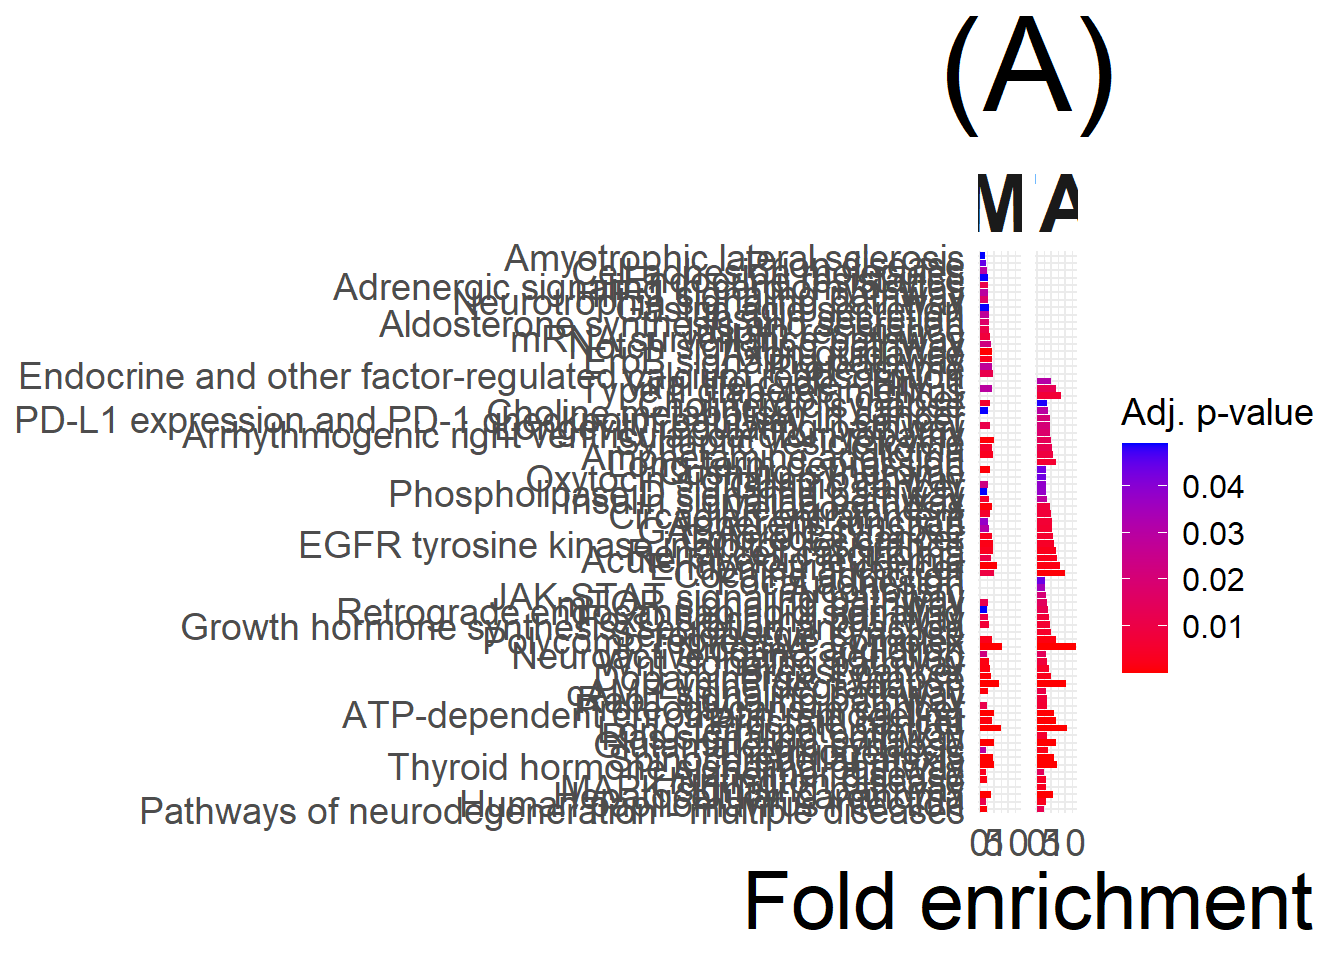
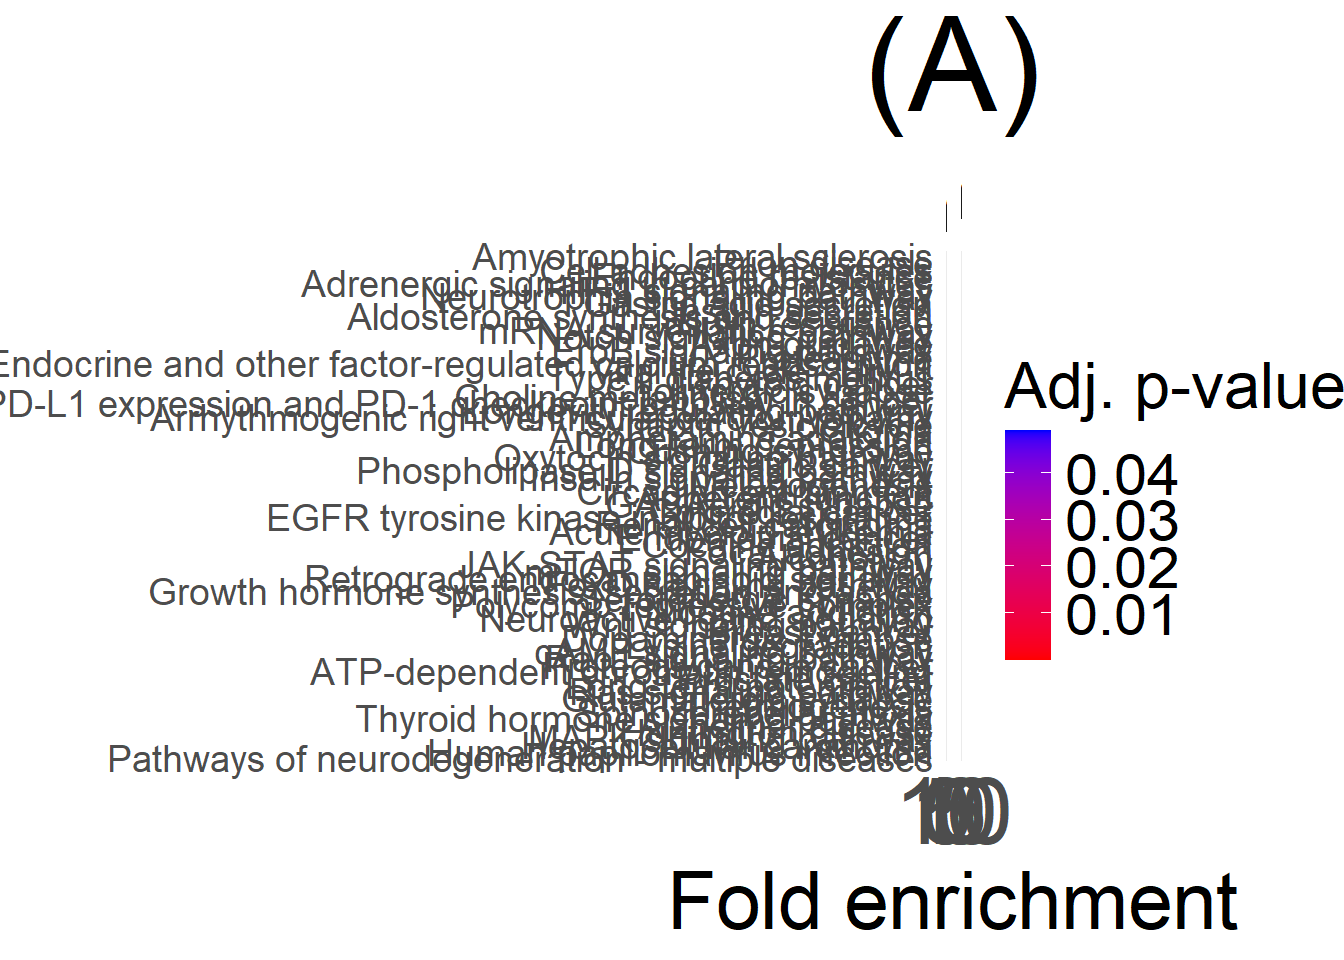
7/29/2025

Changed region(s): [[0.0, 0.25, 1.0, 0.9688], [0.625, 0.0, 0.8438, 0.1562], [0.7188, 0.1875, 0.8125, 0.25]]

diff --git a/docs/part03_func_enrichment_clusterprofiler.html b/docs/part03_func_enrichment_clusterprofiler.html
@@ -417,7 +417,7 @@ aria-hidden="true"></span> </a>
 <div class="tab-content">
 <div id="summary" class="tab-pane fade in active">
 <p>
-<strong>Last updated:</strong> 2025-07-25
+<strong>Last updated:</strong> 2025-07-29
 </p>
 <p>
 <strong>Checks:</strong> <span
@@ -551,15 +551,15 @@ project makes it easier to run your code on other machines.</p>
 <div class="panel panel-default">
 <div class="panel-heading">
 <p class="panel-title">
-<a data-toggle="collapse" data-parent="#workflowr-checks" href="#strongRepositoryversionstrongahrefhttpsgithubcomhan16deepmotifstree0b5c9c72ece40e1d2bdfcaffad645390a654b1betargetblank0b5c9c7a">
+<a data-toggle="collapse" data-parent="#workflowr-checks" href="#strongRepositoryversionstrongahrefhttpsgithubcomhan16deepmotifstree79b65c2eb9989c2cbb941f77e54512419aba59a7targetblank79b65c2a">
 <span class="glyphicon glyphicon-ok text-success"
 aria-hidden="true"></span> <strong>Repository version:</strong>
-<a href="https://github.com/han16/deep_motifs/tree/0b5c9c72ece40e1d2bdfcaffad645390a654b1be" target="_blank">0b5c9c7</a>
+<a href="https://github.com/han16/deep_motifs/tree/79b65c2eb9989c2cbb941f77e54512419aba59a7" target="_blank">79b65c2</a>
 </a>
 </p>
 </div>
 <div
[2 lines of base64/hex data omitted]
 class="panel-collapse collapse">
 <div class="panel-body">
 <p>
@@ -569,7 +569,7 @@ reproducibility.
 </p>
 <p>
 The results in this page were generated with repository version
-<a href="https://github.com/han16/deep_motifs/tree/0b5c9c72ece40e1d2bdfcaffad645390a654b1be" target="_blank">0b5c9c7</a>.
+<a href="https://github.com/han16/deep_motifs/tree/79b65c2eb9989c2cbb941f77e54512419aba59a7" target="_blank">79b65c2</a>.
 See the <em>Past versions</em> tab to see a history of the changes made
 to the R Markdown and HTML files.
 </p>
@@ -587,6 +587,7 @@ Ignored files:
     Ignored:    .Rhistory
 
 Unstaged changes:
+    Modified:   analysis/index.Rmd
     Modified:   analysis/part03_func_enrichment_clusterprofiler.Rmd
 
 </code></pre>
@@ -634,6 +635,40 @@ Message
 </tr>
 </thead>
 <tbody>
+<tr>
+<td>
+Rmd
+</td>
+<td>
+<a href="https://github.com/han16/deep_motifs/blob/79b65c2eb9989c2cbb941f77e54512419aba59a7/analysis/part03_func_enrichment_clusterprofiler.Rmd" target="_blank">79b65c2</a>
+</td>
+<td>
+han
+</td>
+<td>
+2025-07-25
+</td>
+<td>
+7/25/2025
+</td>
+</tr>
+<tr>
+<td>
+html
+</td>
+<td>
+<a href="https://rawcdn.githack.com/han16/deep_motifs/79b65c2eb9989c2cbb941f77e54512419aba59a7/docs/part03_func_enrichment_clusterprofiler.html" target="_blank">79b65c2</a>
+</td>
+<td>
+han
+</td>
+<td>
+2025-07-25
+</td>
+<td>
+7/25/2025
+</td>
+</tr>
 <tr>
 <td>
 Rmd
@@ -1112,6 +1147,17 @@ Date
 <tbody>
 <tr>
 <td>
+<a href="https://github.com/han16/deep_motifs/blob/79b65c2eb9989c2cbb941f77e54512419aba59a7/docs/figure/part03_func_enrichment_clusterprofiler.Rmd/unnamed-chunk-8-1.png" target="_blank">79b65c2</a>
+</td>
+<td>
+han
+</td>
+<td>
+2025-07-25
+</td>
+</tr>
+<tr>
+<td>
 <a href="https://github.com/han16/deep_motifs/blob/0b5c9c72ece40e1d2bdfcaffad645390a654b1be/docs/figure/part03_func_enrichment_clusterprofiler.Rmd/unnamed-chunk-8-1.png" target="_blank">0b5c9c7</a>
 </td>
 <td>
@@ -1182,6 +1228,17 @@ Date
 <tbody>
 <tr>
 <td>
+<a href="https://github.com/han16/deep_motifs/blob/79b65c2eb9989c2cbb941f77e54512419aba59a7/docs/figure/part03_func_enrichment_clusterprofiler.Rmd/unnamed-chunk-9-1.png" target="_blank">79b65c2</a>
+</td>
+<td>
+han
+</td>
+<td>
+2025-07-25
+</td>
+</tr>
+<tr>
+<td>
 <a href="https://github.com/han16/deep_motifs/blob/0b5c9c72ece40e1d2bdfcaffad645390a654b1be/docs/figure/part03_func_enrichment_clusterprofiler.Rmd/unnamed-chunk-9-1.png" target="_blank">0b5c9c7</a>
 </td>
 <td>
@@ -1223,9 +1280,9 @@ kegg_comparison_plot=ggplot(combined_df, aes(x = Description, y = FoldEnrichment
     plot.title = element_text(hjust = 0.5, size = 50),
     strip.text = element_text(size = 30, face = &quot;bold&quot;),  # facet subtitle size
     axis.text.y = element_text(size = 14), 
-    axis.text.x = element_text(size = 14), 
-    legend.title = element_text(size = 14),      
-    legend.text = element_text(size = 12),        
+    axis.text.x = element_text(size = 35), 
+    legend.title = element_text(size = 24),      
+    legend.text = element_text(size = 22),        
     axis.title.x = element_text(size = 30),
     axis.title.y = element_blank()                # remove y-axis label
   )
@@ -1253,6 +1310,17 @@ Date
 </tr>
 </thead>
 <tbody>
+<tr>
+<td>
+<a href="https://github.com/han16/deep_motifs/blob/79b65c2eb9989c2cbb941f77e54512419aba59a7/docs/figure/part03_func_enrichment_clusterprofiler.Rmd/unnamed-chunk-10-1.png" target="_blank">79b65c2</a>
+</td>
+<td>
+han
+</td>
+<td>
+2025-07-25
+</td>
+</tr>
 <tr>
 <td>
 <a href="https://github.com/han16/deep_motifs/blob/0b5c9c72ece40e1d2bdfcaffad645390a654b1be/docs/figure/part03_func_enrichment_clusterprofiler.Rmd/unnamed-chunk-10-1.png" target="_blank">0b5c9c7</a>
@@ -1335,6 +1403,17 @@ Date
 <tbody>
 <tr>
 <td>
+<a href="https://github.com/han16/deep_motifs/blob/79b65c2eb9989c2cbb941f77e54512419aba59a7/docs/figure/part03_func_enrichment_clusterprofiler.Rmd/unnamed-chunk-12-1.png" target="_blank">79b65c2</a>
+</td>
+<td>
+han
+</td>
+<td>
+2025-07-25
+</td>
+</tr>
+<tr>
+<td>
 <a href="https://github.com/han16/deep_motifs/blob/0b5c9c72ece40e1d2bdfcaffad645390a654b1be/docs/figure/part03_func_enrichment_clusterprofiler.Rmd/unnamed-chunk-12-1.png" target="_blank">0b5c9c7</a>
 </td>
 <td>
@@ -1398,6 +1477,17 @@ Date
 <tbody>
 <tr>
 <td>
+<a href="https://github.com/han16/deep_motifs/blob/79b65c2eb9989c2cbb941f77e54512419aba59a7/docs/figure/part03_func_enrichment_clusterprofiler.Rmd/unnamed-chunk-13-1.png" target="_blank">79b65c2</a>
+</td>
+<td>
+han
+</td>
+<td>
+2025-07-25
+</td>
+</tr>
+<tr>
+<td>
 <a href="https://github.com/han16/deep_motifs/blob/0b5c9c72ece40e1d2bdfcaffad645390a654b1be/docs/figure/part03_func_enrichment_clusterprofiler.Rmd/unnamed-chunk-13-1.png" target="_blank">0b5c9c7</a>
 </td>
 <td>
@@ -1453,7 +1543,7 @@ ekegg@result$Description &lt;- gsub(
 p &lt;- cnetplot(ekegg,
               circular = TRUE,
               colorEdge = TRUE,
-              cex_label_gene = 1,
+              cex_label_gene = 1.3,
               cex_label_category = 1)
 
 # Assign &#39;node_group&#39; based on &#39;name&#39;
@@ -1500,6 +1590,17 @@ Date
 </tr>
 </thead>
 <tbody>
+<tr>
+<td>
+<a href="https://github.com/han16/deep_motifs/blob/79b65c2eb9989c2cbb941f77e54512419aba59a7/docs/figure/part03_func_enrichment_clusterprofiler.Rmd/unnamed-chunk-14-1.png" target="_blank">79b65c2</a>
+</td>
+<td>
+han
+</td>
+<td>
+2025-07-25
+</td>
+</tr>
 <tr>
 <td>
 <a href="https://github.com/han16/deep_motifs/blob/08915dee6532930c18dcee96e68fa39676f1008a/docs/figure/part03_func_enrichment_clusterprofiler.Rmd/unnamed-chunk-14-1.png" target="_blank">08915de</a>
@@ -1563,7 +1664,7 @@ datatable(extensions = &#39;Buttons&#39;,
 <pre><code>[1] 63</code></pre>
 <pre class="r"><code>library(gridExtra)
 all &lt;- grid.arrange(kegg_comparison_plot,  net_plot, nrow=1) 
-ggsave(all,filename = paste0(&quot;C:\\Users\\hans\\OneDrive - Marquette University\\AI_for_Autism\\Fig\\KEGG-pathway-Deep-MOTIFs.pdf&quot;),width = 27,height = 12,dpi = 800)</code></pre>
+ggsave(all,filename = paste0(&quot;C:\\Users\\hans\\OneDrive - Marquette University\\AI_for_Autism\\Fig\\KEGG-pathway-Deep-MOTIFs.pdf&quot;),width = 29,height = 12,dpi = 600)</code></pre>
 <pre class="r"><code>all &lt;- grid.arrange(ranking_change,  gene_set_enrichment,kegg_comparison_plot,  net_plot,  nrow=2) 
 ggsave(all,filename = paste0(&quot;C:\\Users\\hans\\OneDrive - Marquette University\\AI_for_Autism\\Fig\\real_data_validation.pdf&quot;),width = 20,height = 16,dpi = 900)</code></pre>
 <pre class="r"><code># show how many genes are displayed in the graph

diff --git a/docs/index.html b/docs/index.html
@@ -398,7 +398,7 @@ aria-hidden="true"></span> </a>
 <div class="tab-content">
 <div id="summary" class="tab-pane fade in active">
 <p>
-<strong>Last updated:</strong> 2025-05-23
+<strong>Last updated:</strong> 2025-07-29
 </p>
 <p>
 <strong>Checks:</strong> <span
@@ -558,15 +558,15 @@ C:\\han\\Projects\\2025_02_deep_motifs\\deep_motifs\\
 <div class="panel panel-default">
 <div class="panel-heading">
 <p class="panel-title">
-<a data-toggle="collapse" data-parent="#workflowr-checks" href="#strongRepositoryversionstrongahrefhttpsgithubcomhan16deepmotifstree6df30ee4676cce815ff8b04c81a4059246b2f6b1targetblank6df30eea">
+<a data-toggle="collapse" data-parent="#workflowr-checks" href="#strongRepositoryversionstrongahrefhttpsgithubcomhan16deepmotifstree79b65c2eb9989c2cbb941f77e54512419aba59a7targetblank79b65c2a">
 <span class="glyphicon glyphicon-ok text-success"
 aria-hidden="true"></span> <strong>Repository version:</strong>
-<a href="https://github.com/han16/deep_motifs/tree/6df30ee4676cce815ff8b04c81a4059246b2f6b1" target="_blank">6df30ee</a>
+<a href="https://github.com/han16/deep_motifs/tree/79b65c2eb9989c2cbb941f77e54512419aba59a7" target="_blank">79b65c2</a>
 </a>
 </p>
 </div>
 <div
[2 lines of base64/hex data omitted]
 class="panel-collapse collapse">
 <div class="panel-body">
 <p>
@@ -576,7 +576,7 @@ reproducibility.
 </p>
 <p>
 The results in this page were generated with repository version
-<a href="https://github.com/han16/deep_motifs/tree/6df30ee4676cce815ff8b04c81a4059246b2f6b1" target="_blank">6df30ee</a>.
+<a href="https://github.com/han16/deep_motifs/tree/79b65c2eb9989c2cbb941f77e54512419aba59a7" target="_blank">79b65c2</a>.
 See the <em>Past versions</em> tab to see a history of the changes made
 to the R Markdown and HTML files.
 </p>
@@ -595,6 +595,7 @@ Ignored files:
 
 Unstaged changes:
     Modified:   analysis/index.Rmd
+    Modified:   analysis/part03_func_enrichment_clusterprofiler.Rmd
 
 </code></pre>
 <p>
@@ -639,6 +640,40 @@ Message
 </tr>
 </thead>
 <tbody>
+<tr>
+<td>
+Rmd
+</td>
+<td>
+<a href="https://github.com/han16/deep_motifs/blob/0c6c9aa68aecf1b6e8718064d8ffb5d522cdda6e/analysis/index.Rmd" target="_blank">0c6c9aa</a>
+</td>
+<td>
+han
+</td>
+<td>
+2025-05-23
+</td>
+<td>
+5/23/2025
+</td>
+</tr>
+<tr>
+<td>
+html
+</td>
+<td>
+<a href="https://rawcdn.githack.com/han16/deep_motifs/0c6c9aa68aecf1b6e8718064d8ffb5d522cdda6e/docs/index.html" target="_blank">0c6c9aa</a>
+</td>
+<td>
+han
+</td>
+<td>
+2025-05-23
+</td>
+<td>
+5/23/2025
+</td>
+</tr>
 <tr>
 <td>
 Rmd
@@ -1281,7 +1316,11 @@ distribution</a></p></li>
 <li><p><a href="part02_enrichment.html">enrichment of top rank
 genes</a></p></li>
 <li><p><a href="part03_func_enrichment.html">functional enrichment
-analysis</a></p></li>
+analysis</a></p>
+<ul>
+<li><a href="part03_func_enrichment_clusterprofiler.html">functional
+enrichment analysis-clusterprofiler</a></li>
+</ul></li>
 <li><p><a href="part04_clustering_analysis.html">clustering
 analysis</a></p></li>
 </ul>
